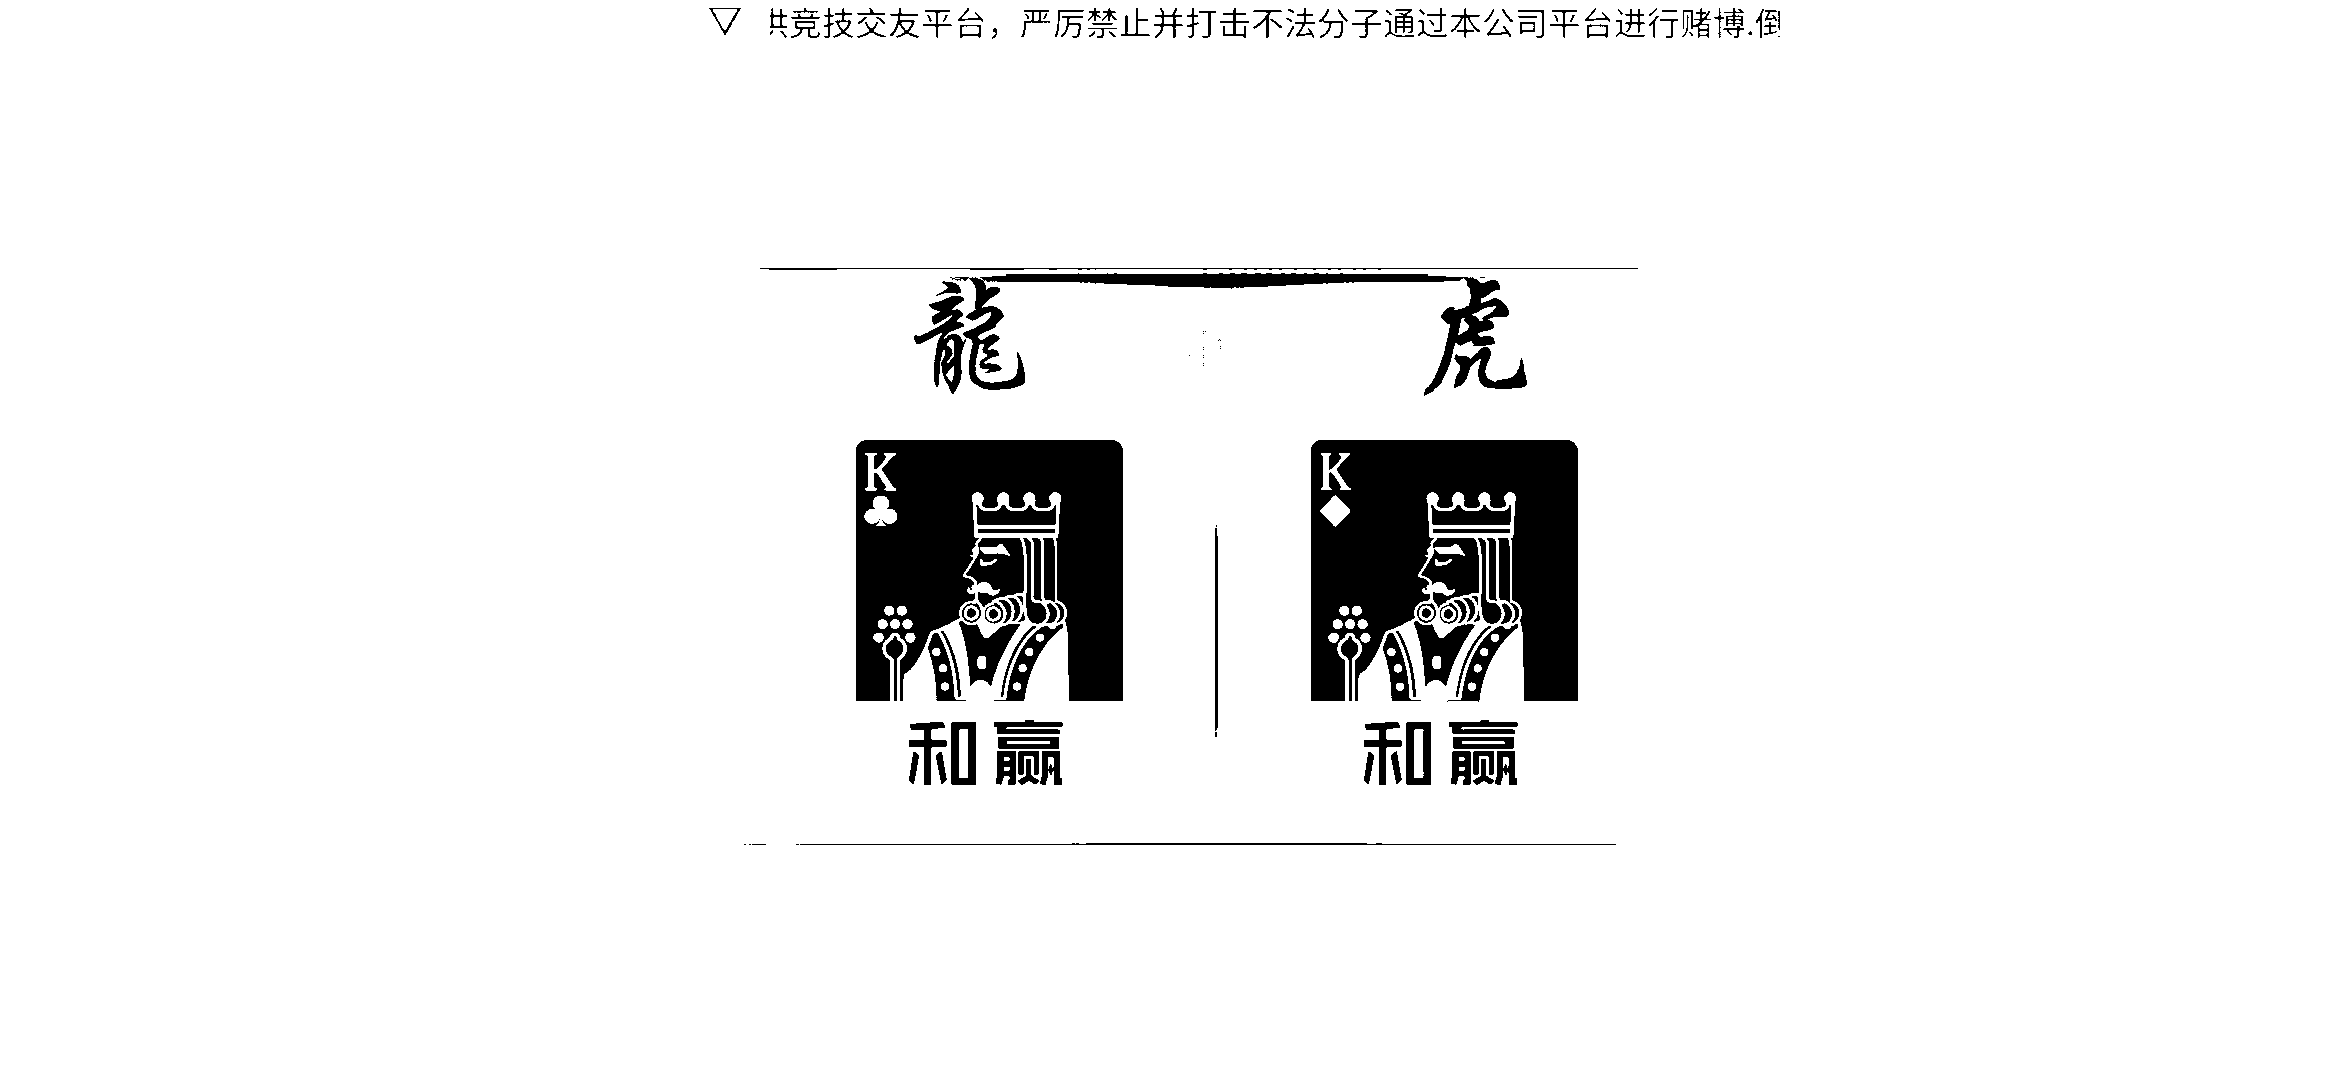
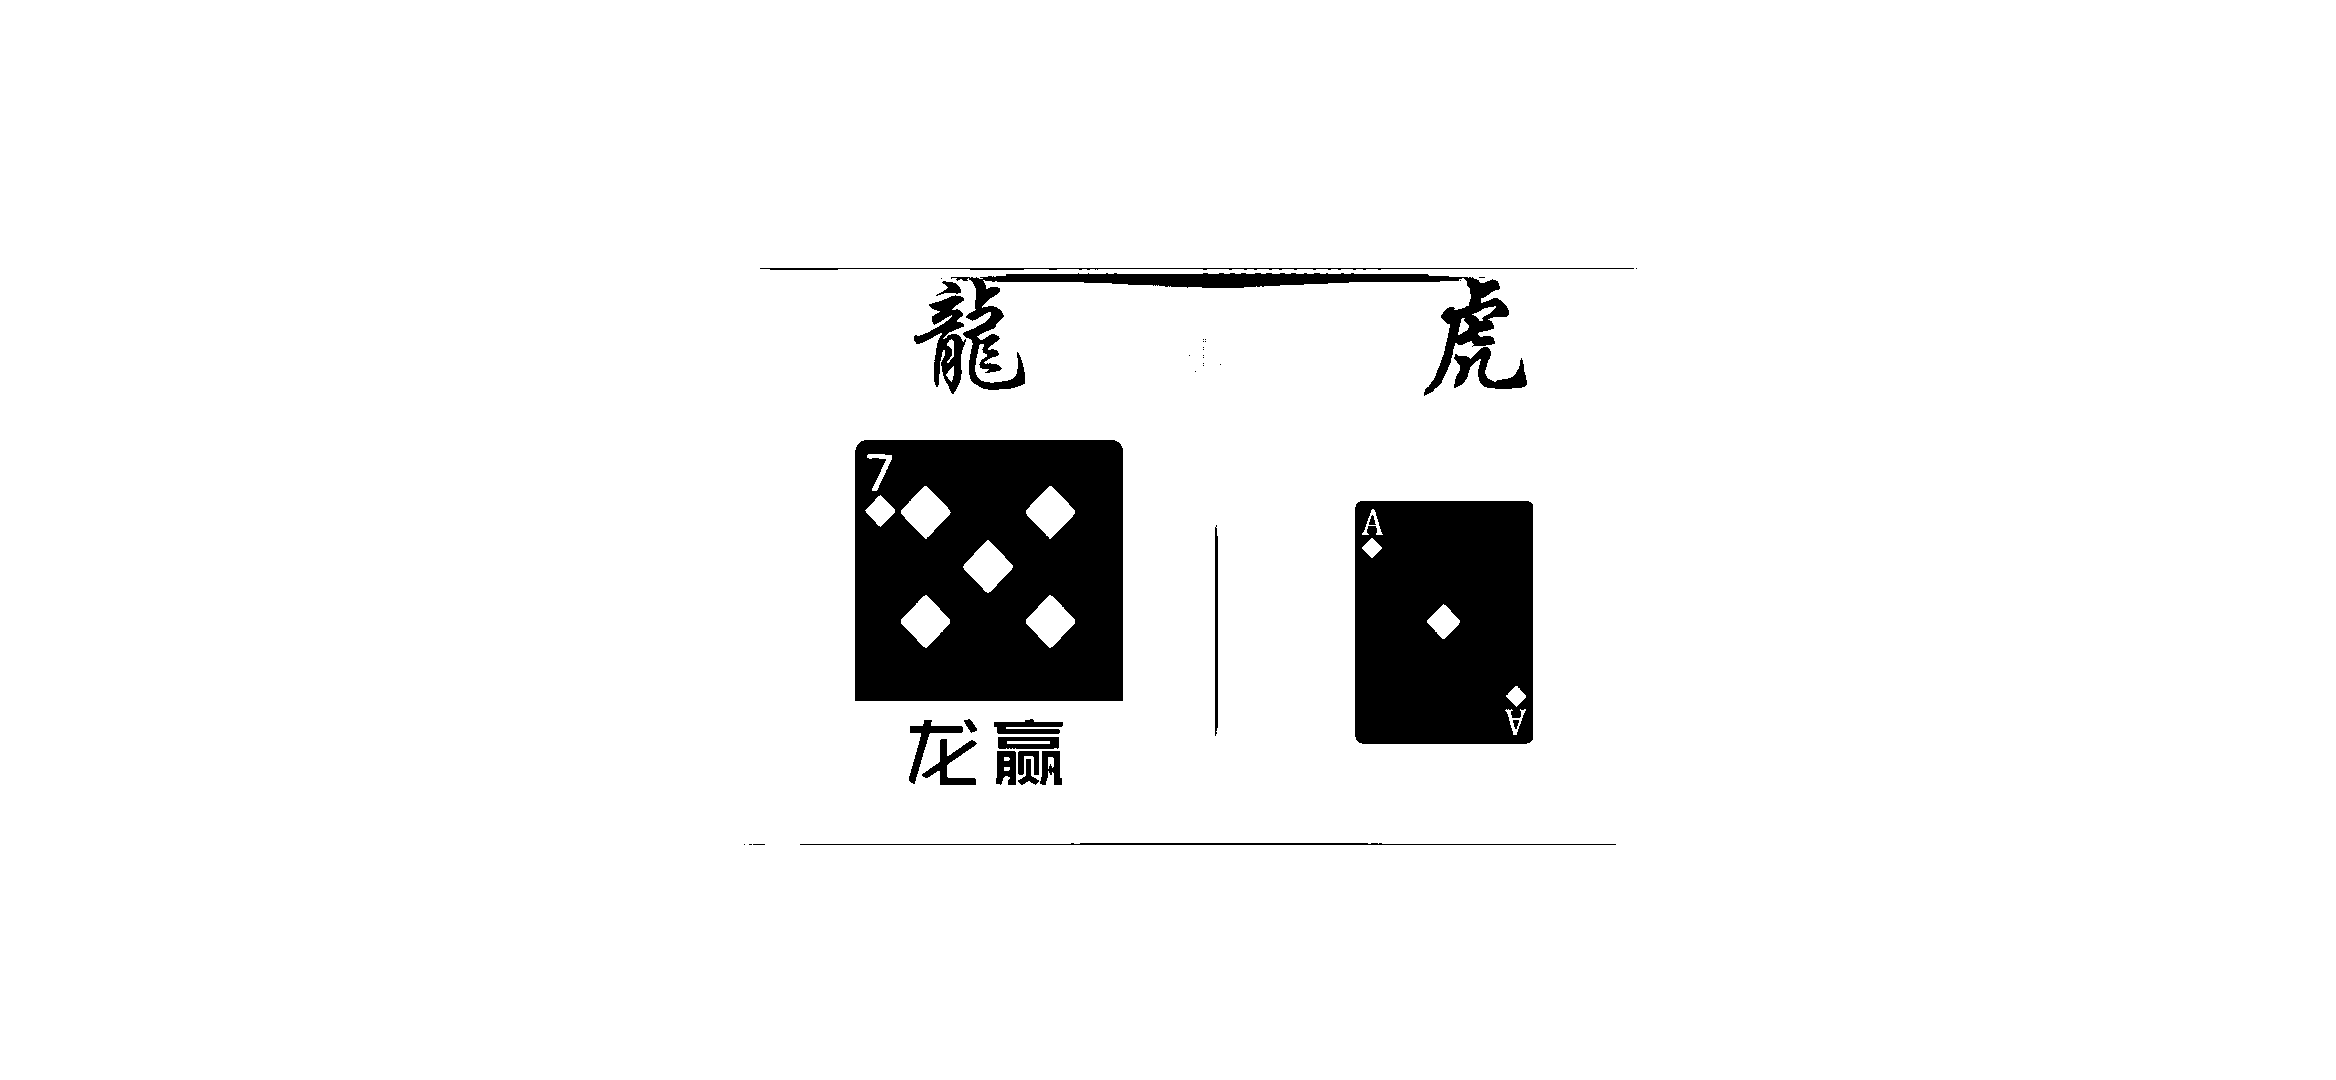
improve game result recognition

diff --git a/read_frame.py b/read_frame.py
@@ -1,5 +1,6 @@
 from PIL import Image, ImageOps
 import cv2
+import numpy as np
 from tesserocr import PyTessBaseAPI, PSM
 from tesserocr import get_languages
 tessPSM = PSM.SINGLE_LINE
@@ -14,6 +15,7 @@ LeftTime1Area = (1268, 320, 1310, 386)
 LeftTime0Area = (1316, 320, 1358, 386)
 DragonWinArea = (900, 718, 1068, 790)
 TigerWinArea = (1356, 718, 1524, 790)
+YelloFilter = [(20, 43, 46), (34, 255, 255)]
 
 WINNER_ARRAY = ["龙","和","虎"]
 
@@ -78,6 +80,20 @@ def txt2int(txt: str) -> int:
         number = -1
     
     return number
+
+def is_chinese(txt: str) -> bool:
+    for i in range(len(txt)):
+        if txt[i] < '\u4e00' or txt[i] > '\u9fa5':
+            return False
+    return True
+
+def is_yello_activated(img: Image.Image) -> bool:
+    cvImg = cv2.cvtColor(np.array(img), cv2.COLOR_RGB2HSV)
+    filteredImg = cv2.inRange(cvImg, YelloFilter[0], YelloFilter[1])
+    yelloWeight = filteredImg.sum() / (255.0 * filteredImg.size)
+    if yelloWeight >= 0.20:
+        return True
+    return False
 
 def pureTxt2int(txt: str) -> int:
     if len(txt) == 0:
@@ -157,14 +173,14 @@ def get_left_time(gameScreen: Image.Image) -> int:
     
 def get_winner(gameScreen: Image.Image) -> int:
     dragonWinImg = gameScreen.crop(DragonWinArea)
-    dragonWinTxt = recognize_chinese(dragonWinImg)
     tigerWinImg = gameScreen.crop(TigerWinArea)
-    tigerWinTxt = recognize_chinese(tigerWinImg)
-    if dragonWinTxt == "利不" or tigerWinTxt == "初雪":
+    dragonActivated = is_yello_activated(dragonWinImg)
+    tigerActivated = is_yello_activated(tigerWinImg)
+    if dragonActivated and tigerActivated:
         return EQUAL_WIN
-    elif dragonWinTxt == "伟下":
+    elif dragonActivated:
         return DRAGON_WIN
-    elif tigerWinTxt == "虚两":
+    elif tigerActivated:
         return TIGER_WIN
     return NONE_WIN
 
@@ -187,7 +203,7 @@ def clean_game():
     currentBet = 0
     currentBetChoice = DRAGON_BET
     
-def process_frame(gameScreen: Image.Image) -> bool:
+def process_frame(originalGameScreen: Image.Image) -> bool:
     global totalGameCount
     global currentWaitFrame
     global currentLeftTime
@@ -196,8 +212,9 @@ def process_frame(gameScreen: Image.Image) -> bool:
     global currentEqualBet
     global currentTigerBet
     
-    statusId = get_status(gameScreen)
-    leftTime = get_left_time(gameScreen)
+    binarizedGameScreen = binarizePillow(originalGameScreen, 156)
+    statusId = get_status(binarizedGameScreen)
+    leftTime = get_left_time(binarizedGameScreen)
     currentLeftTime = currentLeftTime if leftTime == -1 else leftTime
     
     
@@ -221,7 +238,7 @@ def process_frame(gameScreen: Image.Image) -> bool:
                 print("Begin Bet")
                 continue
             else:
-                currentBet = get_bet(gameScreen)
+                currentBet = get_bet(binarizedGameScreen)
                 currentDragonBet = currentDragonBet if currentBet[0] == -1 else currentBet[0]
                 currentEqualBet = currentEqualBet if currentBet[1] == -1 else currentBet[1]
                 currentTigerBet = currentTigerBet if currentBet[2] == -1 else currentBet[2]
@@ -232,7 +249,7 @@ def process_frame(gameScreen: Image.Image) -> bool:
                 print("Stop Bet")
                 continue
             else:
-                currentBet = get_bet(gameScreen)
+                currentBet = get_bet(binarizedGameScreen)
                 currentDragonBet = currentDragonBet if currentBet[0] == -1 else currentBet[0]
                 currentEqualBet = currentEqualBet if currentBet[1] == -1 else currentBet[1]
                 currentTigerBet = currentTigerBet if currentBet[2] == -1 else currentBet[2]
@@ -247,7 +264,7 @@ def process_frame(gameScreen: Image.Image) -> bool:
                 print("Wait Result")
                 break
             else:
-                currentBet = get_bet(gameScreen)
+                currentBet = get_bet(binarizedGameScreen)
                 currentDragonBet = currentDragonBet if currentBet[0] == -1 else currentBet[0]
                 currentEqualBet = currentEqualBet if currentBet[1] == -1 else currentBet[1]
                 currentTigerBet = currentTigerBet if currentBet[2] == -1 else currentBet[2]
@@ -258,13 +275,13 @@ def process_frame(gameScreen: Image.Image) -> bool:
                 print("******** Miss Result ********")
                 break
             else:
-                winner = get_winner(gameScreen)
+                winner = get_winner(originalGameScreen)
                 if winner != NONE_WIN:
                     print("Result Received!")
                     currentState = FREE_STATE
                     totalGameCount += 1
                     print("Dragon Bet: %d\nEqual Bet: %d\nTiger Bet: %d\nWinner: %s" %(currentDragonBet, currentEqualBet, currentTigerBet, WINNER_ARRAY[winner]))
-                    recordFile.write("%d,%d,%d,%d,%s\n" %(totalGameCount+1, currentDragonBet, currentEqualBet, currentTigerBet, WINNER_ARRAY[winner]))
+                    recordFile.write("%d,%d,%d,%d,%s\n" %(totalGameCount, currentDragonBet, currentEqualBet, currentTigerBet, WINNER_ARRAY[winner]))
                     recordFile.flush()
                     clean_game()
                 break
@@ -274,10 +291,11 @@ def process_frame(gameScreen: Image.Image) -> bool:
     return True 
 
 
-# gameScreen = Image.open("./tiger_video/test2_equal_win.jpg")
+# gameScreen = Image.open("./tiger_video/test2_dragon_win.jpg")
+# print(get_winner(gameScreen))
 # gameScreen = binarizePillow(gameScreen, 156)
 # gameScreen.save("gameScreen.png")
-# print(get_winner(gameScreen))
+
 
 
 # statusId = get_status(gameScreen)
@@ -296,7 +314,7 @@ recordFile.write("局数,龙,和,虎,赢\n")
 recordFile.flush()
 
 totalFrame = 0
-cap = cv2.VideoCapture("./tiger_video/test.mp4")
+cap = cv2.VideoCapture("./tiger_video/record.mkv")
 if not cap.isOpened():
     print("Fatal error! Open Video file failed!\n")
     chineseApi.End()
@@ -306,7 +324,6 @@ while cap.isOpened():
     ret, frame = cap.read()
     if ret == True:
         gameScreen = Image.fromarray(cv2.cvtColor(frame, cv2.COLOR_BGR2RGB))
-        gameScreen = binarizePillow(gameScreen, 156)
         process_frame(gameScreen)
         totalFrame += 1
         # if totalFrame % 300 == 0:

diff --git a/color_filter.py b/color_filter.py
@@ -1,0 +1,9 @@
+import cv2
+YelloFilter = [(20, 43, 46), (34, 255, 255)]
+RedFilter = [(), ()]
+img = cv2.imread("./dragon.png")
+img_hsv = cv2.cvtColor(img, cv2.COLOR_BGR2HSV)
+filteredImg = cv2.inRange(img_hsv, YelloFilter[0], YelloFilter[1])
+# cv2.imshow("filterd", filteredImg)
+cv2.imwrite("filterd_tiger.png", filteredImg)
+print(filteredImg.sum() / (255.0 * filteredImg.size))
